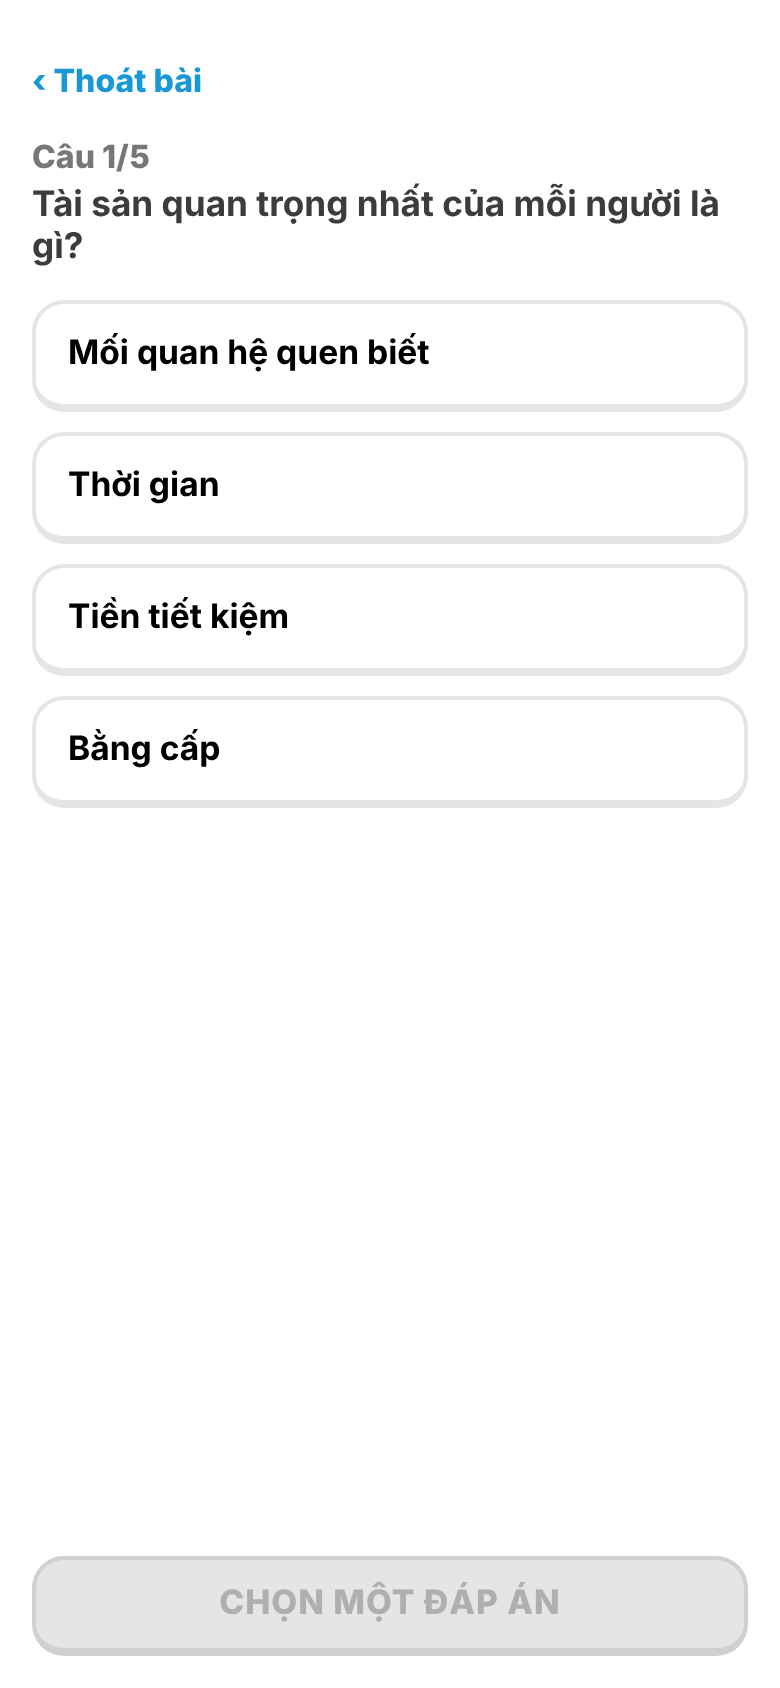
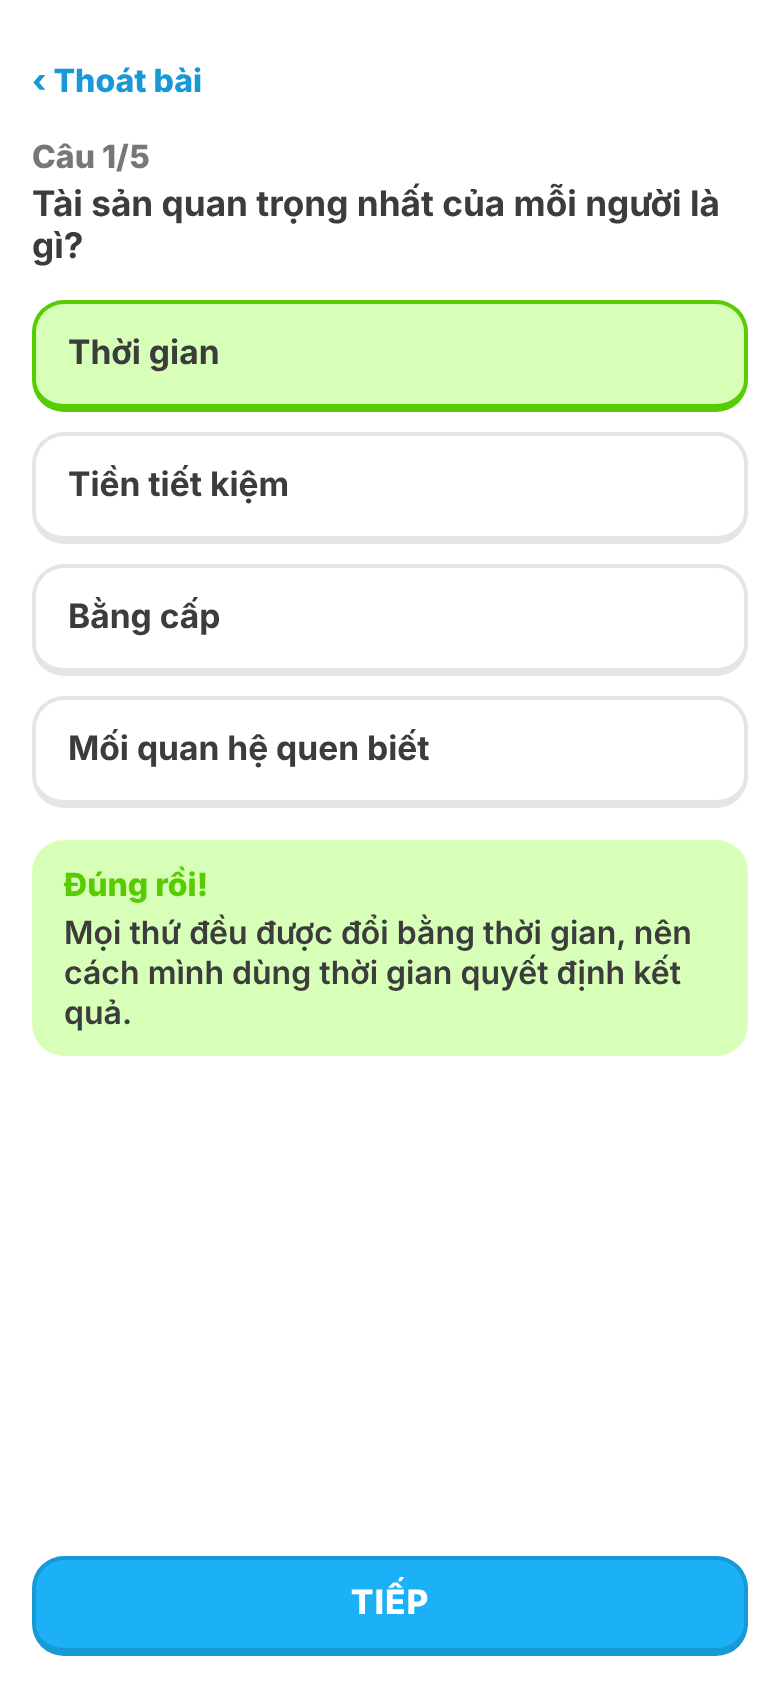
feat: answers of a multiple-choice question appear in a new random order each time it opens
Grading still uses the answer itself, so the right answer cannot be learned by its place.

Story: content request 2026-11-28 (lessons)

Claude-Session: https://claude.ai/code/session_01N8trRukAdUtow4mzvQDbn7

diff --git a/src/ui/screens/lesson-screen.tsx b/src/ui/screens/lesson-screen.tsx
@@ -6,6 +6,7 @@ import {
   isMatchQuestion,
   isOrderQuestion,
   shuffledStepOrder,
+  choiceDisplayOrder,
   toggleMatchLink,
   xpForCompletion,
 } from '../../domain/lesson';
@@ -133,6 +134,7 @@ export function LessonScreen({
     let shuffled: number[] = [];
     let links: (number | null)[] = [];
     if (question !== undefined && isOrderQuestion(question)) shuffled = shuffledStepOrder(question.steps.length, random);
+    else if (question !== undefined && !isMatchQuestion(question) && 'options' in question) shuffled = choiceDisplayOrder(question.options.length, random);
     if (question !== undefined && isMatchQuestion(question)) {
       shuffled = shuffledStepOrder(question.pairs.length, random);
       links = question.pairs.map(() => null);
@@ -219,7 +221,8 @@ export function LessonScreen({
           />
         ) : (
           <div className="lesson-options">
-            {question.options.map((option, optionIndex) => {
+            {(view.shuffled.length === question.options.length ? view.shuffled : question.options.map((_, i) => i)).map((optionIndex) => {
+              const option = question.options[optionIndex] ?? '';
               let modifier = '';
               if (answered && optionIndex === question.correctIndex) modifier = ' lesson-option--correct';
               else if (answered && optionIndex === selected) modifier = ' lesson-option--wrong';

diff --git a/tests/unit/lesson/four-options.test.ts b/tests/unit/lesson/four-options.test.ts
@@ -16,3 +16,15 @@ describe('multiple-choice questions', () => {
     expect([...at].sort()).toEqual([0, 1, 2, 3]);
   });
 });
+
+describe('answer order on screen (2026-11-28)', () => {
+  it('shows every answer once, in a shuffled order that can differ each time', async () => {
+    const { choiceDisplayOrder } = await import('../../../src/domain/lesson');
+    const seq = (values: number[]) => () => values.shift() ?? 0;
+    const a = choiceDisplayOrder(4, seq([0.9, 0.1, 0.5]));
+    const b = choiceDisplayOrder(4, seq([0.1, 0.9, 0.2]));
+    expect([...a].sort()).toEqual([0, 1, 2, 3]);
+    expect([...b].sort()).toEqual([0, 1, 2, 3]);
+    expect(a).not.toEqual(b);
+  });
+});

diff --git a/src/domain/lesson.ts b/src/domain/lesson.ts
@@ -271,6 +271,14 @@ export function shuffledStepOrder(count: number, random: () => number): number[]
   return order;
 }
 
+/**
+ * Display order of a choice question's answers (2026-11-28): a fresh shuffle each time the question
+ * opens, so the right answer is not learned by its place. Grading still uses the option index.
+ */
+export function choiceDisplayOrder(count: number, random: () => number): number[] {
+  return shuffledStepOrder(count, random);
+}
+
 /** Score of a finished lesson. */
 export interface LessonResult {
   readonly correct: number;
